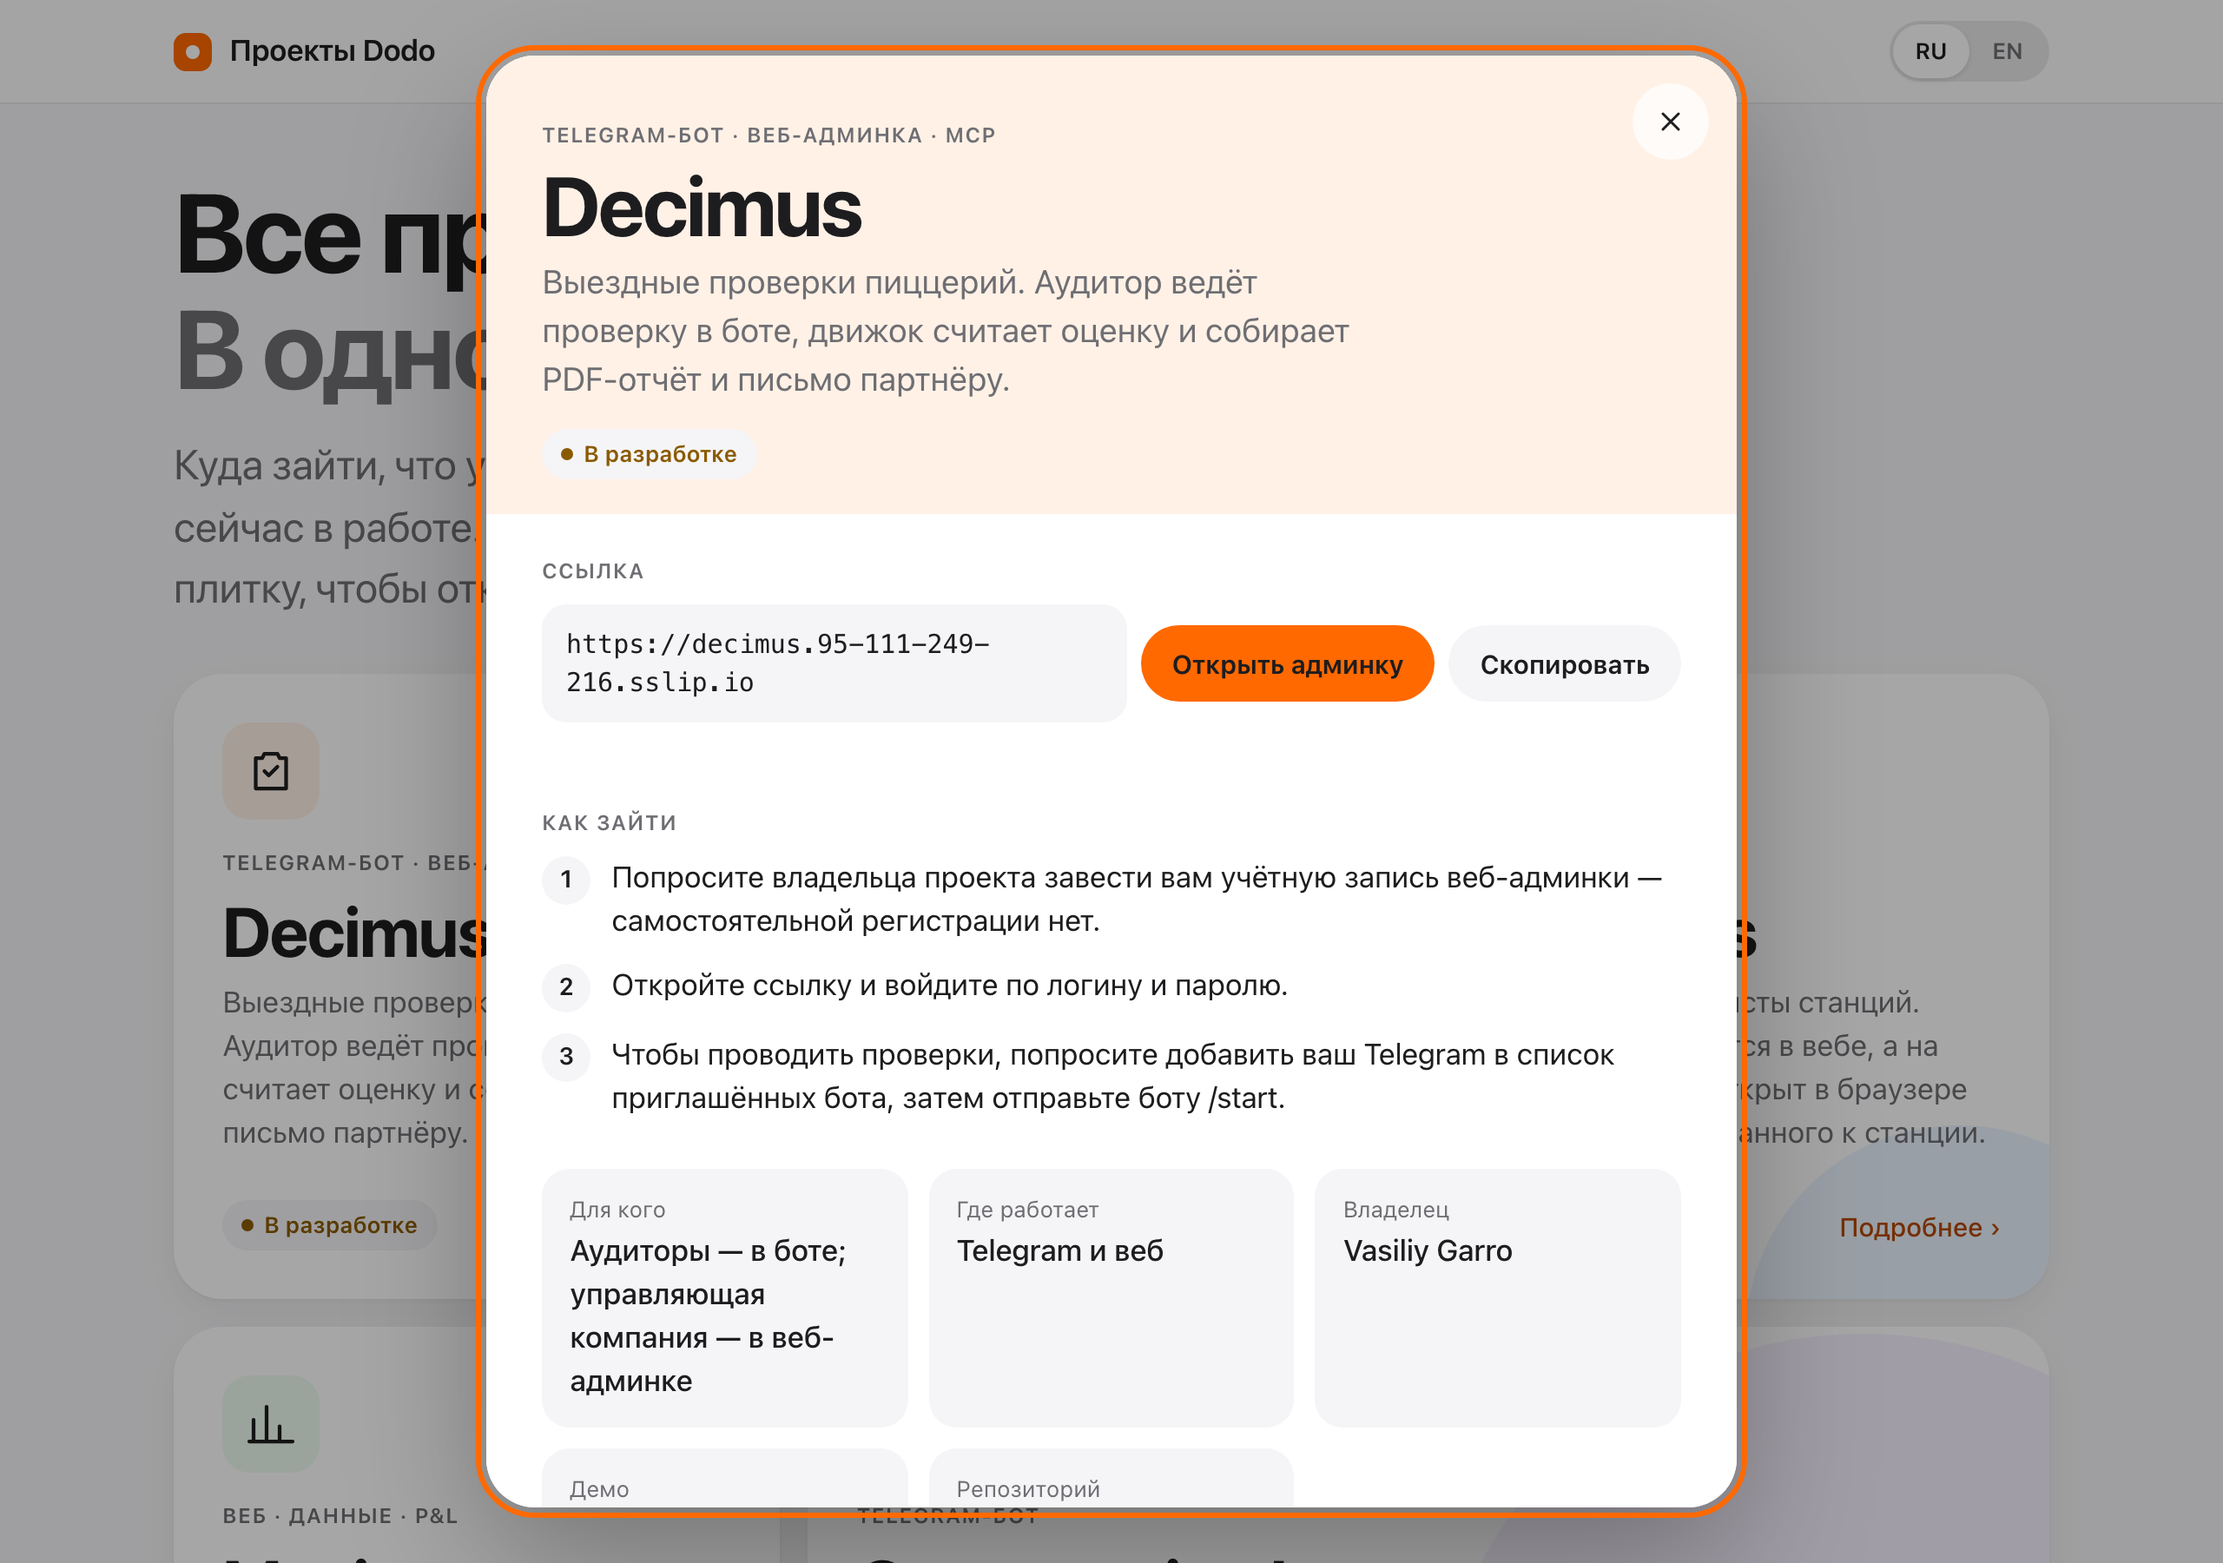
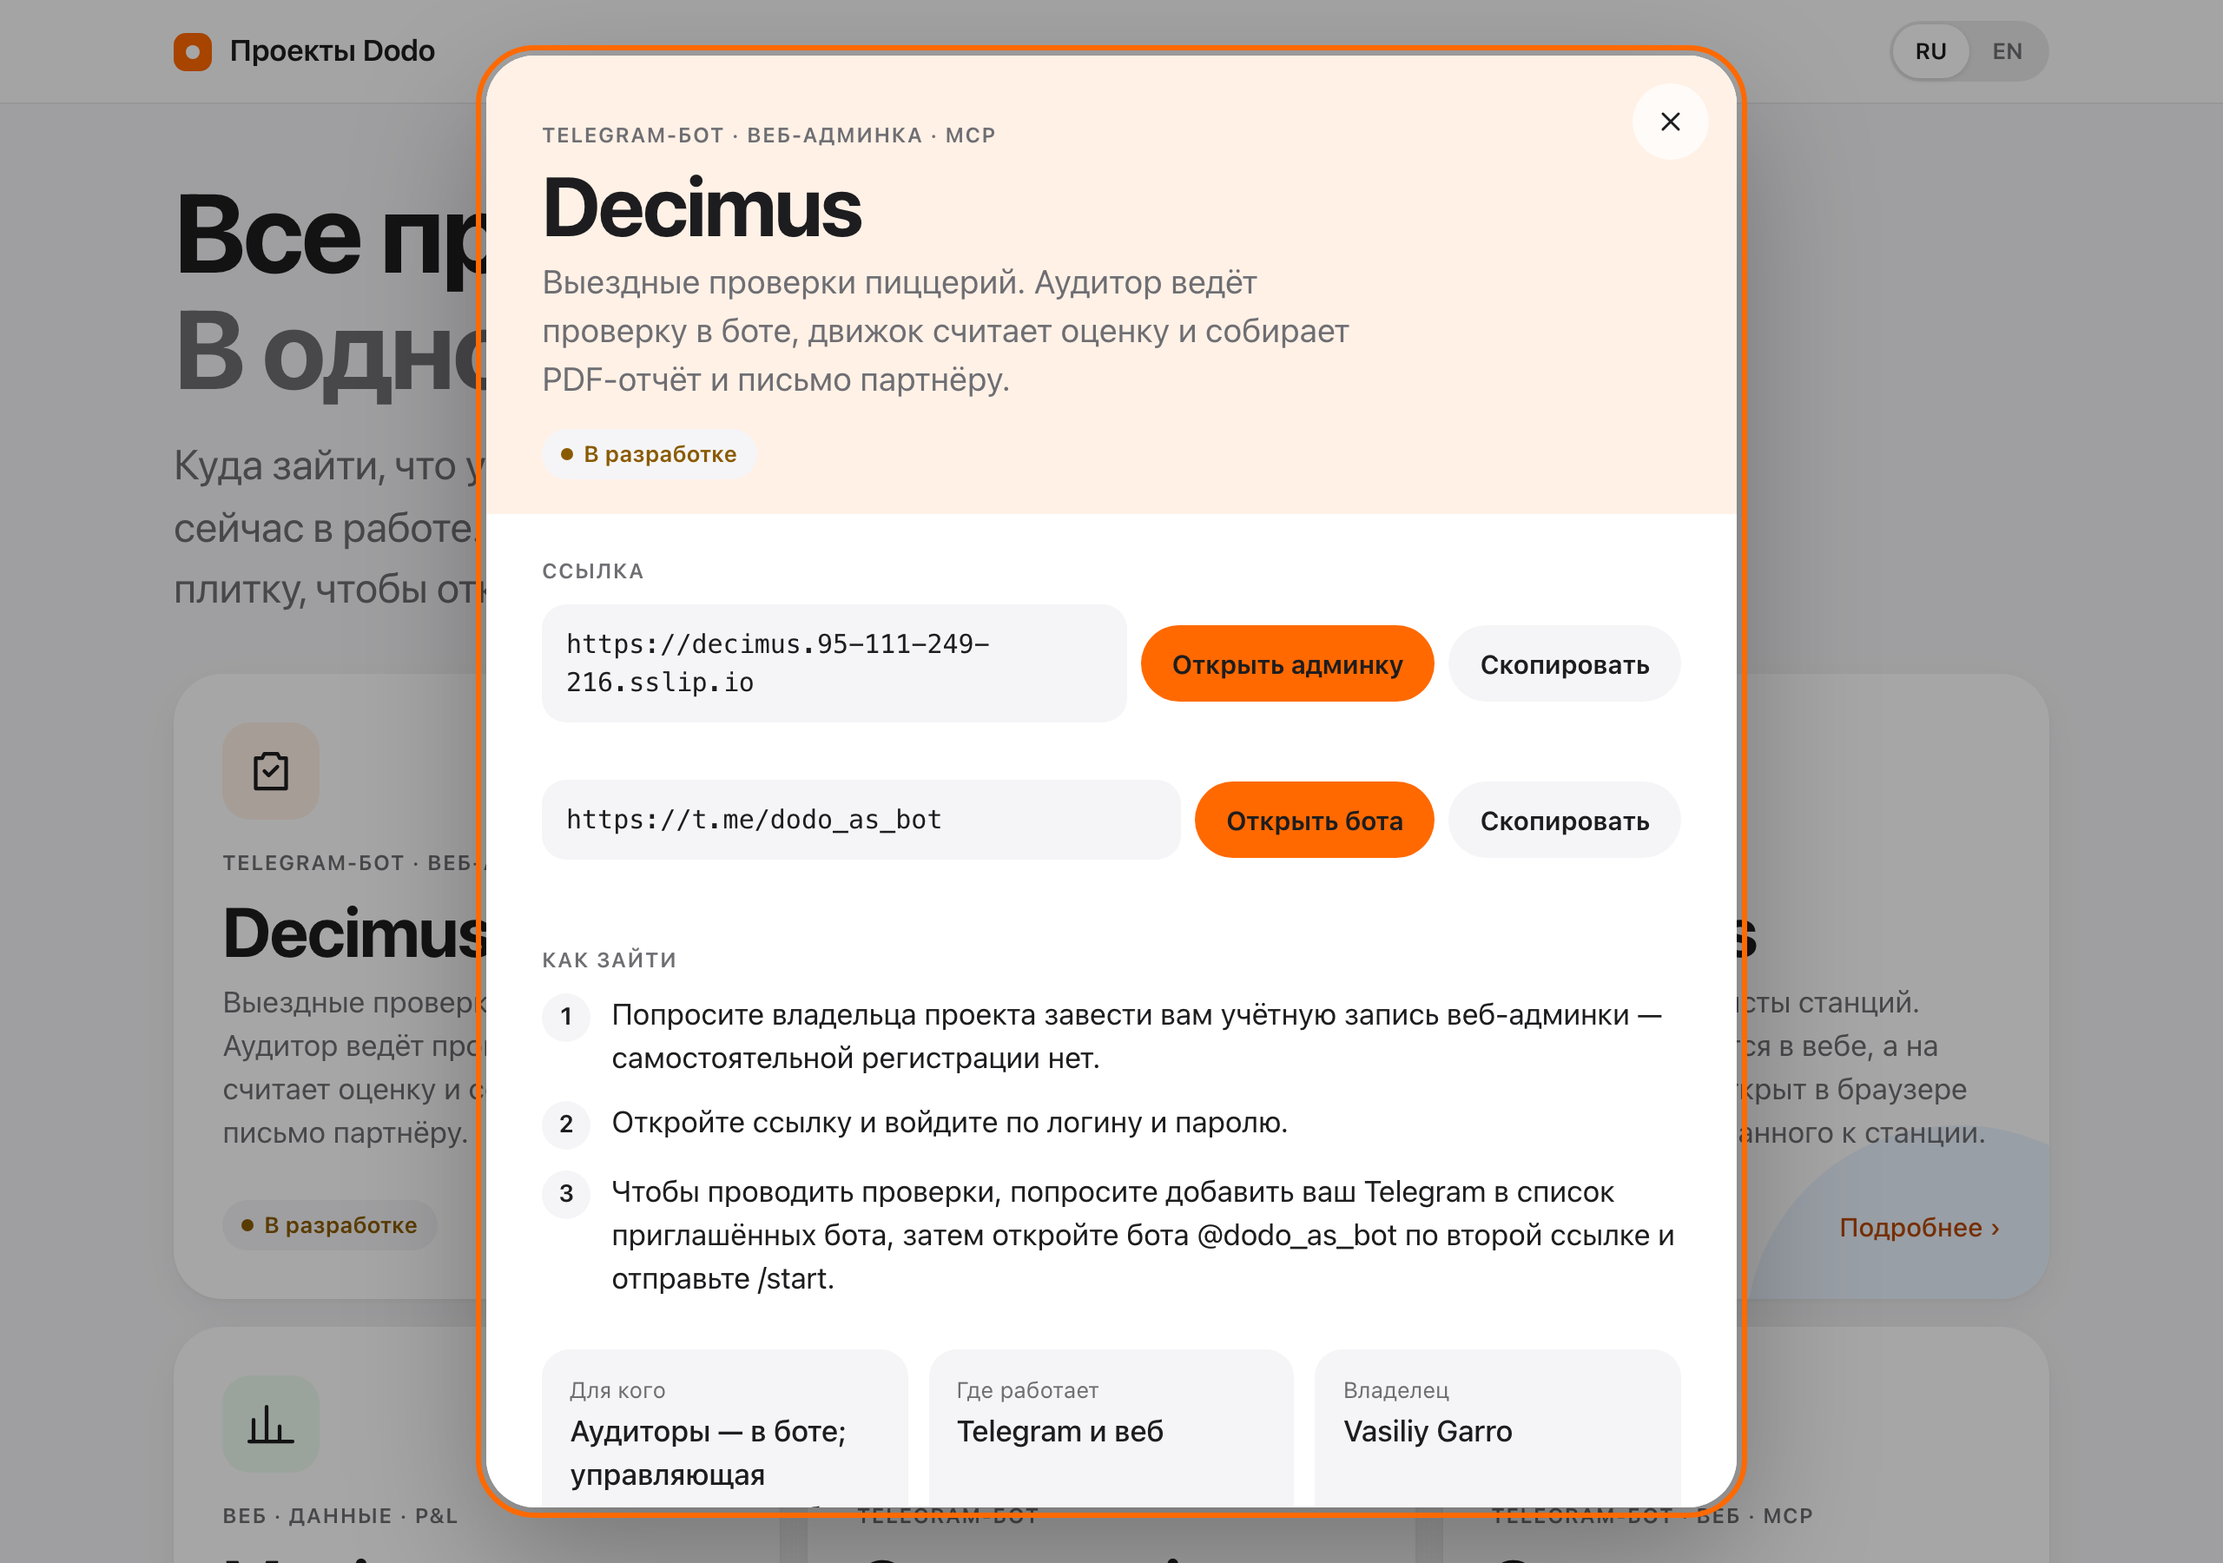
feat: Swarm в хабе, ссылки на ботов, демо Maximus, статусы по решению владельца
- Swarm: пятая плитка (веб, бот @swarm_brain_bot, вход по приглашению,
  демо-воркспейс), план из подпроекта «Swarm Brain»
- Decimus: вторая ссылка — бот @dodo_as_bot (getMe на VPS)
- Construction bot: ссылка t.me/dodo_constr_bot (getMe на MUSPELHEIM),
  шаги подключения из команд и текстов бота, демо — нет
- Maximus: публичное демо через Funnel :8443, вход ссылкой с ключом
- статусы: Decimus, Meridius, Maximus — в разработке; Construction bot — работает
- схема: repo_public (приватный репозиторий без ссылки), extra_links, глиф hive
- сетка: lg+sm и три sm; e2e на bento без дыр, закрытый репозиторий, вторую ссылку;
  проверка проверок ломает скрытие приватного репозитория
- смоук живого сайта считает плитки по YAML, скриншоты пересняты

Closes #2, closes #3, closes #4, closes #5, closes #6, closes #7, closes #8

diff --git a/tests/e2e/hub.spec.ts b/tests/e2e/hub.spec.ts
@@ -4,20 +4,20 @@ import { ru } from '../../src/i18n/ru';
 import { en } from '../../src/i18n/en';
 import { serveFixture, serveOutage, type Outage } from './helpers';
 
-const PROJECTS = ['decimus', 'meridius', 'maximus', 'construction-bot'];
+const PROJECTS = ['decimus', 'meridius', 'maximus', 'construction-bot', 'swarm'];
 
 test.describe('с фикстурой плана', () => {
   test.beforeEach(async ({ page }) => {
     await serveFixture(page);
   });
 
-  test('главная рендерит 4 плитки', async ({ page }) => {
+  test(`главная рендерит ${PROJECTS.length} плиток`, async ({ page }) => {
     const problems: string[] = [];
     page.on('pageerror', (e) => problems.push(e.message));
     page.on('console', (m) => m.type() === 'error' && problems.push(m.text()));
     await page.goto('./');
     const tiles = page.locator('a.tile');
-    await expect(tiles).toHaveCount(4);
+    await expect(tiles).toHaveCount(PROJECTS.length);
     for (const slug of PROJECTS) await expect(page.locator(`#tile-${slug}`)).toBeVisible();
     await expect(page.locator('meta[name="robots"]')).toHaveAttribute('content', /noindex/);
     await expect(page.locator('[data-roadmap="all"]')).toHaveAttribute('data-state', 'ready');
@@ -48,11 +48,37 @@ test.describe('с фикстурой плана', () => {
     await expect(page.locator('#card-meridius [data-link]')).toHaveText('https://meridius.95-111-249-216.sslip.io');
   });
 
-  test('факт без источника показан как «уточняется»', async ({ page }) => {
+  test('у проекта без доски в Swarm нет плана, «уточняется» не осталось', async ({ page }) => {
     await page.goto('./#construction-bot');
     const card = page.locator('#card-construction-bot');
-    await expect(card.locator('[data-pending]').first()).toHaveText(ru.pending);
     await expect(card).toContainText(ru.planNone);
+    // Все факты найдены: ни одна карточка не говорит «уточняется».
+    await expect(page.locator('[data-pending]')).toHaveCount(0);
+  });
+
+  test('приватный репозиторий без ссылки, публичный — ссылкой на GitHub', async ({ page }) => {
+    await page.goto('./#construction-bot');
+    const priv = page.locator('#card-construction-bot [data-repo]');
+    await expect(priv).toHaveText(ru.repoPrivate);
+    await expect(priv.locator('a')).toHaveCount(0);
+    await expect(page.locator('#card-construction-bot')).not.toContainText('GarroV/construction_bot');
+    await page.keyboard.press('Escape');
+
+    await page.goto('./#swarm');
+    await expect(page.locator('#card-swarm [data-repo] a')).toHaveAttribute('href', 'https://github.com/GarroV/Swarm-brain');
+  });
+
+  test('бот — второй ссылкой рядом с вебом', async ({ page }) => {
+    await page.goto('./#decimus');
+    const extra = page.locator('#card-decimus [data-extra-link]');
+    await expect(extra.getByRole('link', { name: 'Открыть бота' })).toHaveAttribute('href', 'https://t.me/dodo_as_bot');
+    await page.goto('./#swarm');
+    await expect(page.locator('#card-swarm [data-link]')).toHaveText('https://swarm-brain.pages.dev');
+    await expect(page.locator('#card-swarm [data-extra-link] a')).toHaveAttribute('href', 'https://t.me/swarm_brain_bot');
+    await expect(page.locator('#card-swarm').getByRole('link', { name: ru.demoOpen })).toHaveAttribute(
+      'href',
+      /^https:\/\/swarm-brain\.pages\.dev\/api\/auth\/demo\?key=/,
+    );
   });
 
   test('RU/EN переключается', async ({ page }) => {
@@ -90,6 +116,23 @@ test.describe('с фикстурой плана', () => {
     const cardPlan = page.locator('[data-roadmap="decimus"]');
     await expect(cardPlan).toContainText(FIXTURE_TITLES.decimusPlanned);
     await expect(cardPlan).not.toContainText(FIXTURE_TITLES.meridiusInProgress);
+  });
+
+  test('bento без дыр: каждый ряд плиток заполнен до края', async ({ page }) => {
+    await page.setViewportSize({ width: 1440, height: 900 });
+    await page.goto('./');
+    const rows = await page.evaluate(() => {
+      const grid = document.querySelector('a.tile')!.parentElement!.getBoundingClientRect();
+      const byRow = new Map<number, number>();
+      for (const t of document.querySelectorAll('a.tile')) {
+        const r = t.getBoundingClientRect();
+        const top = Math.round(r.top);
+        byRow.set(top, Math.max(byRow.get(top) ?? 0, r.right));
+      }
+      return [...byRow.values()].map((right) => Math.round(grid.right - right));
+    });
+    // Правый край последней плитки каждого ряда совпадает с краем сетки.
+    for (const gap of rows) expect(Math.abs(gap)).toBeLessThanOrEqual(1);
   });
 
   test('нет горизонтального скролла', async ({ page }) => {
@@ -134,7 +177,7 @@ test.describe('эндпоинт плана недоступен', () => {
       const feed = page.locator('[data-roadmap="all"]');
       await expect(feed.locator('[data-plan-status]')).toHaveText(ru.planUnavailable);
       await expect(feed).toHaveAttribute('data-state', 'unavailable');
-      await expect(page.locator('a.tile')).toHaveCount(4);
+      await expect(page.locator('a.tile')).toHaveCount(PROJECTS.length);
 
       await page.locator('#tile-decimus').click();
       await expect(page.locator('[data-roadmap="decimus"] [data-plan-status]')).toHaveText(ru.planUnavailable);

diff --git a/src/lib/schema.ts b/src/lib/schema.ts
@@ -20,16 +20,24 @@ export const orTodo = <T extends z.ZodType>(schema: T) => z.union([schema, todo]
 
 export const STATUSES = ['live', 'pilot', 'build'] as const;
 export const SIZES = ['lg', 'sm'] as const;
-export const GLYPHS = ['audit', 'qr', 'chart', 'building'] as const;
+export const GLYPHS = ['audit', 'qr', 'chart', 'building', 'hive'] as const;
 export const TINTS = ['orange', 'blue', 'green', 'violet'] as const;
 
 const httpsUrl = z.url({ protocol: /^https$/ });
+
+/** Вторая дверь рядом с основной ссылкой (например, бот рядом с веб-админкой). */
+const extraLink = z.object({ url: httpsUrl, label: localized }).strict();
 
 export const projectSchema = z
   .object({
     order: z.number().int().nonnegative(),
     name: z.string().trim().min(1),
     repo: z.string().regex(/^GarroV\/[\w.-]+$/),
+    /**
+     * Видимость репозитория на GitHub (`gh repo view --json visibility`).
+     * У приватного ссылку не показываем: коллега без доступа получит 404.
+     */
+    repo_public: z.boolean(),
     status: z.enum(STATUSES),
     size: z.enum(SIZES),
     glyph: z.enum(GLYPHS),
@@ -42,6 +50,8 @@ export const projectSchema = z
     audience: orTodo(localized),
     runs_on: orTodo(localized),
     link: orTodo(z.object({ url: httpsUrl, label: localized.optional() }).strict()),
+    /** Дополнительные двери проекта; нет — пустой список. */
+    extra_links: z.array(extraLink),
     login_steps: orTodo(z.array(localized).min(1)),
     demo: orTodo(
       z.union([

diff --git a/src/i18n/ru.ts b/src/i18n/ru.ts
@@ -27,6 +27,7 @@ export const ru = {
   demoNone: 'Нет',
   demoOpen: 'Открыть демо',
   repo: 'Репозиторий',
+  repoPrivate: 'Закрытый — доступ у владельца проекта',
   pending: 'Уточняется',
   planHeading: 'План',
   planLead: 'Что делаем сейчас, что дальше и что выкатили за последние 30 дней. Берётся из Swarm при открытии страницы.',

diff --git a/src/i18n/en.ts b/src/i18n/en.ts
@@ -27,6 +27,7 @@ export const en: Dict = {
   demoNone: 'No',
   demoOpen: 'Open demo',
   repo: 'Repository',
+  repoPrivate: 'Private — access via the project owner',
   pending: 'To be confirmed',
   planHeading: 'Roadmap',
   planLead: 'What we’re doing now, what’s next, and what shipped in the last 30 days. Loaded from Swarm when you open the page.',

diff --git a/docs/decisions.md b/docs/decisions.md
@@ -9,3 +9,8 @@
 | 28.09.2026 | Репозиторий `GarroV/dodo-hub` публичный. | Бесплатный тариф: Pages из приватного репозитория недоступны; сайт и так публичный. |
 | 28.09.2026 | У Construction bot доски в Swarm нет и не будет, ленты у него нет. | Проект уже просто работает. |
 | 28.09.2026 | Первая публикация на Pages разрешена. | Новый продукт без пользователей. |
+| 28.09.2026 | Статусы: Decimus, Meridius, Maximus — «в разработке»; Construction bot и Swarm — «работает». | Решение владельца (закрывает #7). |
+| 28.09.2026 | Construction bot: «демо ему не нужно» — в карточке «демо: нет». | Решение владельца (закрывает #6). |
+| 28.09.2026 | Maximus: «демо было» — вход в демо ссылкой с ключом публикуется, он сделан для показа. Настоящих паролей не выкладываем. | Решение владельца; ключ в продукте — защита от случайных прохожих, а не секрет (README maximus, `DEMO_KEY`). Закрывает #2, #3. |
+| 28.09.2026 | В хаб добавлен Swarm (подпроект «Swarm Brain» доски «Vibe Coding»). | Решение владельца. |
+| 28.09.2026 | Ссылку на приватный репозиторий карточка не показывает. | `GarroV/construction_bot` стал приватным: коллеги получили бы 404. |
